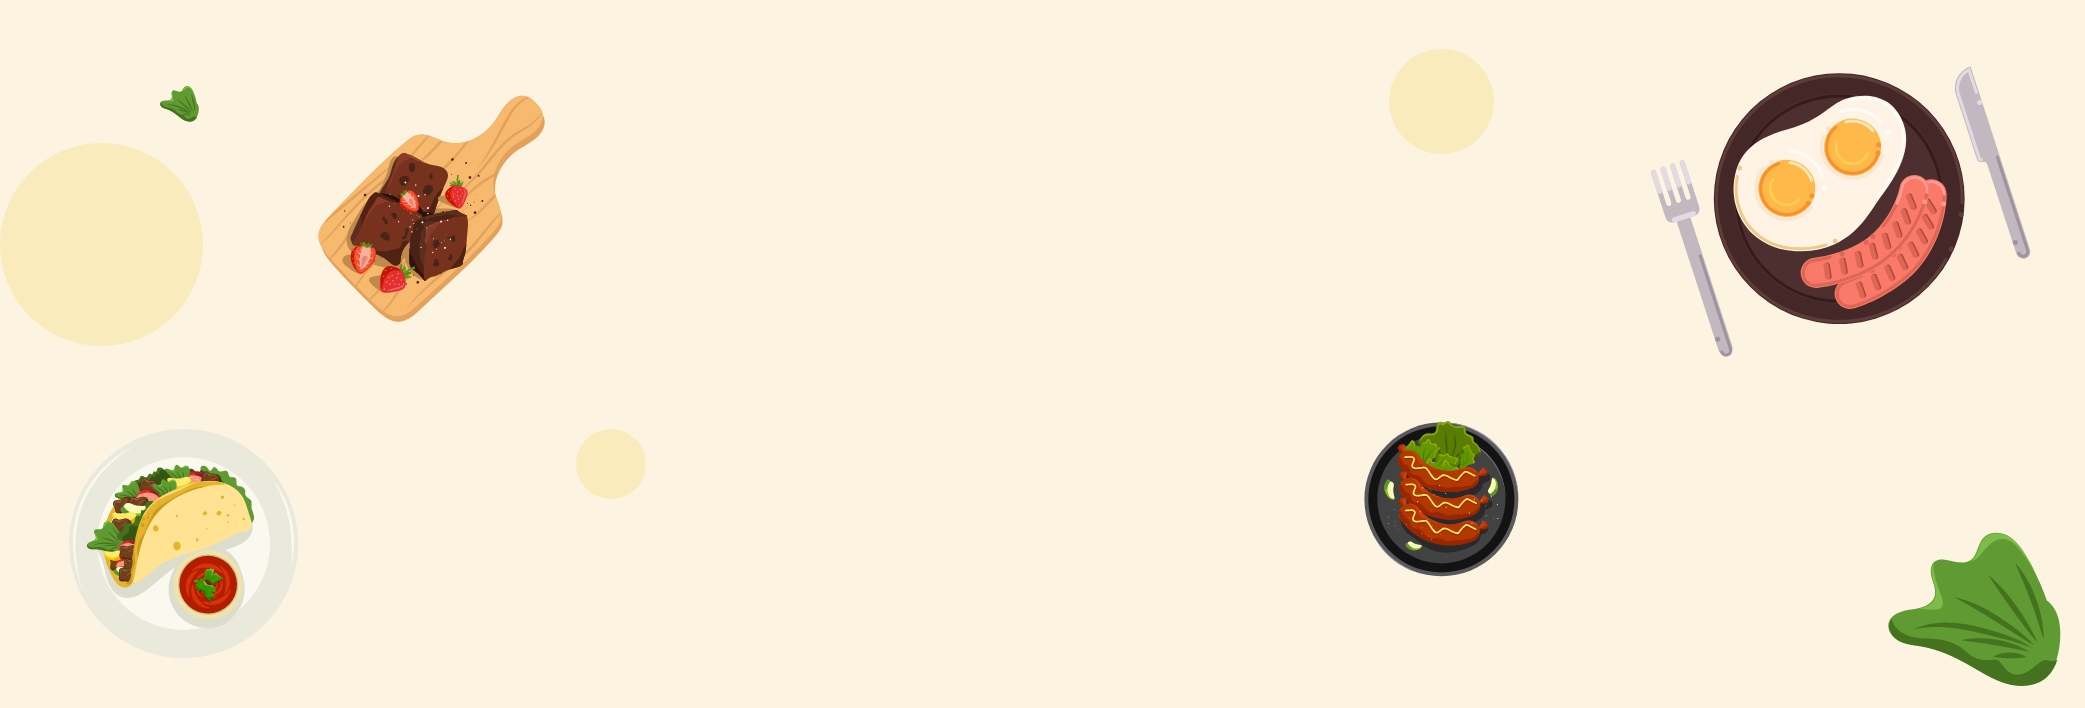
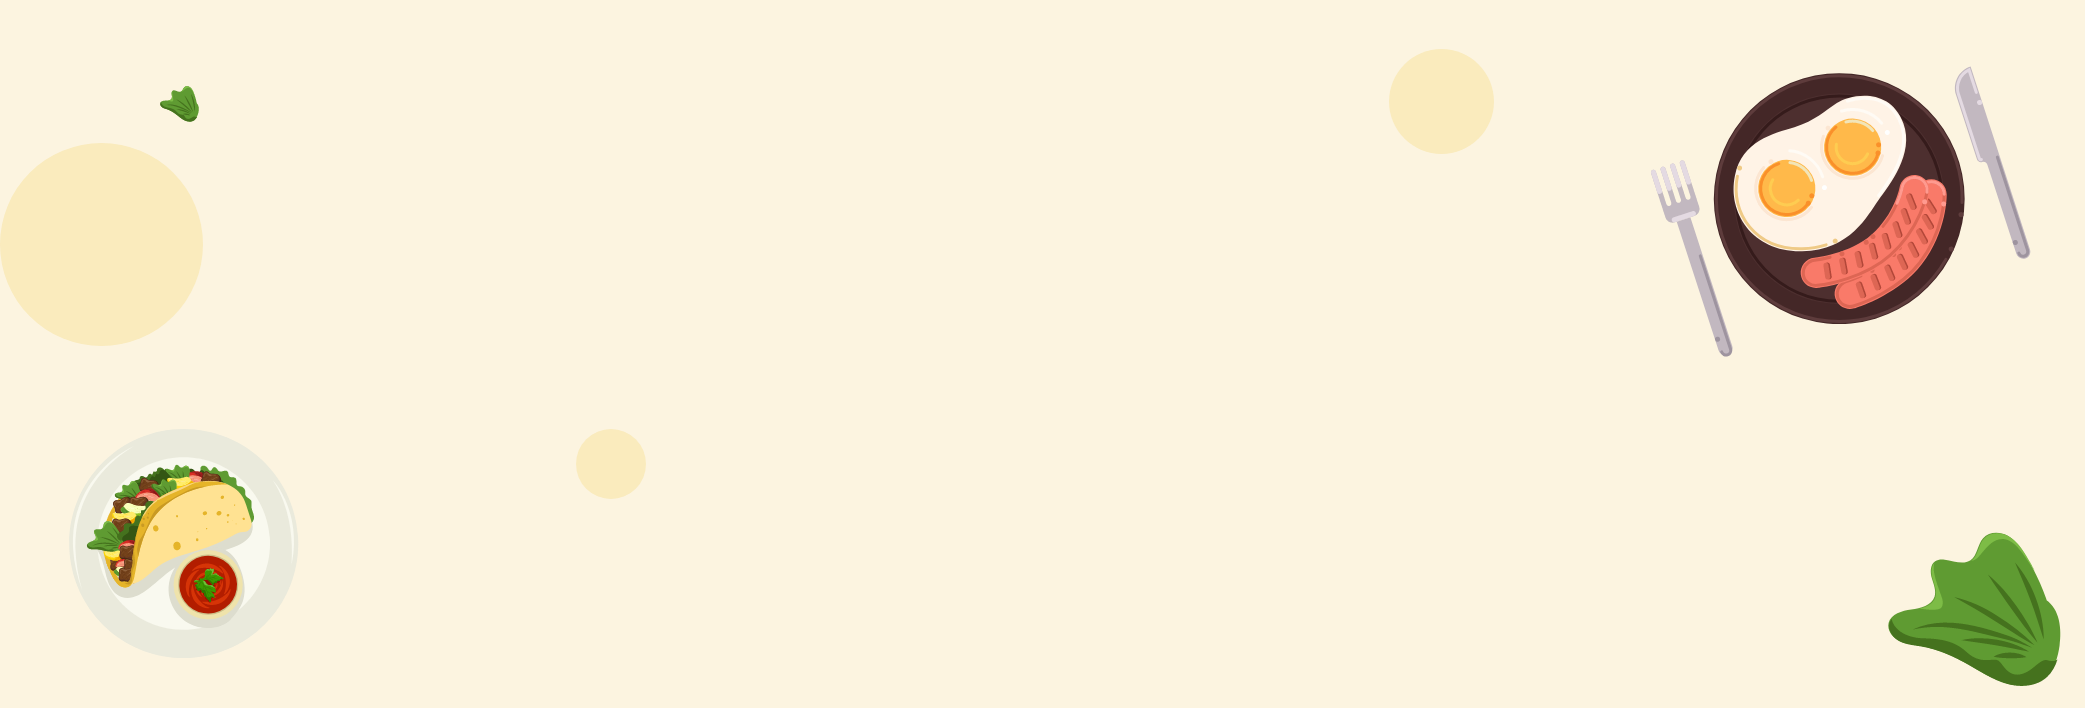
product showing done

Changed region(s): [[0.1559, 0.1243, 0.2806, 0.4661], [0.6547, 0.5904, 0.7482, 0.8079]]

diff --git a/src/foodData/foods.js b/src/foodData/foods.js
@@ -3,7 +3,7 @@ var foods =[
         "id": 1,
         "name": "bagel and cream cheese",
         "detail":"Lorem Ipsum is simply dummy text of the printing and typesetting industry. Lorem Ipsum has been the industry's standard dummy text ever since the 1500s, when an unknown printer took a galley of type and scrambled it to make a type specimen book.",
-        "short": "1Beef ham hock buffalo venison turkey pig burgdoggen turducken doner t-bone ham.",
+        "short": "1Beef ham hock buffalo venison turkey pig burgdoggen turducken doner.",
         "price": "6.99",
         "img":"http://razu.me/hot-onion/Breakfast/breakfast1-min.png",
         "category":"breakfast"
@@ -12,7 +12,7 @@ var foods =[
         "id": 2,
         "name": "breakfat sandwich",
         "detail":"Lorem Ipsum is simply dummy text of the printing and typesetting industry. Lorem Ipsum has been the industry's standard dummy text ever since the 1500s, when an unknown printer took a galley of type and scrambled it to make a type specimen book.",
-        "short": "1Beef ham hock buffalo venison turkey pig burgdoggen turducken doner t-bone ham.",
+        "short": "1Beef ham hock buffalo venison turkey pig burgdoggen turducken doner.",
         "price": "9.99",
         "img":"http://razu.me/hot-onion/Breakfast/breakfast2-min.png",
         "category":"breakfast"
@@ -21,7 +21,7 @@ var foods =[
         "id": 3,
         "name": "backed chicken",
         "detail":"Lorem Ipsum is simply dummy text of the printing and typesetting industry. Lorem Ipsum has been the industry's standard dummy text ever since the 1500s, when an unknown printer took a galley of type and scrambled it to make a type specimen book.",
-        "short": "1Beef ham hock buffalo venison turkey pig burgdoggen turducken doner t-bone ham.",
+        "short": "1Beef ham hock buffalo venison turkey pig burgdoggen turducken doner.",
         "price": "10.99",
         "img":"http://razu.me/hot-onion/Breakfast/breakfast3-min.png",
         "category":"breakfast"
@@ -30,7 +30,7 @@ var foods =[
         "id": 4,
         "name": "egg benedict",
         "detail":"Lorem Ipsum is simply dummy text of the printing and typesetting industry. Lorem Ipsum has been the industry's standard dummy text ever since the 1500s, when an unknown printer took a galley of type and scrambled it to make a type specimen book.",
-        "short": "1Beef ham hock buffalo venison turkey pig burgdoggen turducken doner t-bone ham.",
+        "short": "1Beef ham hock buffalo venison turkey pig burgdoggen turducken doner.",
         "price": "8.99",
         "img":"http://razu.me/hot-onion/Breakfast/breakfast4-min.png",
         "category":"breakfast"
@@ -39,7 +39,7 @@ var foods =[
         "id": 5,
         "name": "toast croissant fried egg",
         "detail":"Lorem Ipsum is simply dummy text of the printing and typesetting industry. Lorem Ipsum has been the industry's standard dummy text ever since the 1500s, when an unknown printer took a galley of type and scrambled it to make a type specimen book.",
-        "short": "1Beef ham hock buffalo venison turkey pig burgdoggen turducken doner t-bone ham.",
+        "short": "1Beef ham hock buffalo venison turkey pig burgdoggen turducken doner.",
         "price": "19.99",
         "img":"http://razu.me/hot-onion/Breakfast/breakfast5-min.png",
         "category":"breakfast"
@@ -48,7 +48,7 @@ var foods =[
         "id": 6,
         "name": "full breakfast fried egg toast brunch",
         "detail":"Lorem Ipsum is simply dummy text of the printing and typesetting industry. Lorem Ipsum has been the industry's standard dummy text ever since the 1500s, when an unknown printer took a galley of type and scrambled it to make a type specimen book.",
-        "short": "1Beef ham hock buffalo venison turkey pig burgdoggen turducken doner t-bone ham.",
+        "short": "1Beef ham hock buffalo venison turkey pig burgdoggen turducken doner.",
         "price": "3.99",
         "img":"http://www.razu.me/hot-onion/Breakfast/breakfast6-min.png",
         "category":"breakfast"
@@ -57,7 +57,7 @@ var foods =[
         "id": 7,
         "name": "healthy meal plan",
         "detail":"Lorem Ipsum is simply dummy text of the printing and typesetting industry. Lorem Ipsum has been the industry's standard dummy text ever since the 1500s, when an unknown printer took a galley of type and scrambled it to make a type specimen book.",
-        "short": "1Beef ham hock buffalo venison turkey pig burgdoggen turducken doner t-bone ham.",
+        "short": "1Beef ham hock buffalo venison turkey pig burgdoggen turducken doner.",
         "price": "23.99",
         "img":"http://razu.me/hot-onion/Lunch/lunch1-min.png",
         "category":"lunch"
@@ -66,7 +66,7 @@ var foods =[
         "id": 8,
         "name": "fried chicken bento",
         "detail":"Lorem Ipsum is simply dummy text of the printing and typesetting industry. Lorem Ipsum has been the industry's standard dummy text ever since the 1500s, when an unknown printer took a galley of type and scrambled it to make a type specimen book.",
-        "short": "1Beef ham hock buffalo venison turkey pig burgdoggen turducken doner t-bone ham.",
+        "short": "1Beef ham hock buffalo venison turkey pig burgdoggen turducken doner.",
         "price": "9.99",
         "img":"http://razu.me/hot-onion/Lunch/lunch2-min.png",
         "category":"lunch"
@@ -75,7 +75,7 @@ var foods =[
         "id": 9,
         "name": "taragon rubbed salmon",
         "detail":"Lorem Ipsum is simply dummy text of the printing and typesetting industry. Lorem Ipsum has been the industry's standard dummy text ever since the 1500s, when an unknown printer took a galley of type and scrambled it to make a type specimen book.",
-        "short": "1Beef ham hock buffalo venison turkey pig burgdoggen turducken doner t-bone ham.",
+        "short": "1Beef ham hock buffalo venison turkey pig burgdoggen turducken doner.",
         "price": "6.99",
         "img":"http://razu.me/hot-onion/Lunch/lunch3-min.png",
         "category":"lunch"
@@ -84,7 +84,7 @@ var foods =[
         "id": 10,
         "name": "indian lunch",
         "detail":"Lorem Ipsum is simply dummy text of the printing and typesetting industry. Lorem Ipsum has been the industry's standard dummy text ever since the 1500s, when an unknown printer took a galley of type and scrambled it to make a type specimen book.",
-        "short": "1Beef ham hock buffalo venison turkey pig burgdoggen turducken doner t-bone ham.",
+        "short": "1Beef ham hock buffalo venison turkey pig burgdoggen turducken doner.",
         "price": "8.99",
         "img":"http://razu.me/hot-onion/Lunch/lunch4-min.png",
         "category":"lunch"
@@ -93,7 +93,7 @@ var foods =[
         "id": 11,
         "name": "beef steak",
         "detail":"Lorem Ipsum is simply dummy text of the printing and typesetting industry. Lorem Ipsum has been the industry's standard dummy text ever since the 1500s, when an unknown printer took a galley of type and scrambled it to make a type specimen book.",
-        "short": "1Beef ham hock buffalo venison turkey pig burgdoggen turducken doner t-bone ham.",
+        "short": "1Beef ham hock buffalo venison turkey pig burgdoggen turducken doner.",
         "price": "15.99",
         "img":"http://razu.me/hot-onion/Lunch/lunch5-min.png",
         "category":"lunch"
@@ -102,7 +102,7 @@ var foods =[
         "id": 12,
         "name": "honey soy glazed salmon with peppers",
         "detail":"Lorem Ipsum is simply dummy text of the printing and typesetting industry. Lorem Ipsum has been the industry's standard dummy text ever since the 1500s, when an unknown printer took a galley of type and scrambled it to make a type specimen book.",
-        "short": "1Beef ham hock buffalo venison turkey pig burgdoggen turducken doner t-bone ham.",
+        "short": "1Beef ham hock buffalo venison turkey pig burgdoggen turducken doner.",
         "price": "7.99",
         "img":"http://razu.me/hot-onion/Lunch/lunch6-min.png",
         "category":"lunch"
@@ -111,7 +111,7 @@ var foods =[
         "id": 13,
         "name": "salmon with grapefruit and lentil salad",
         "detail":"Lorem Ipsum is simply dummy text of the printing and typesetting industry. Lorem Ipsum has been the industry's standard dummy text ever since the 1500s, when an unknown printer took a galley of type and scrambled it to make a type specimen book.",
-        "short": "1Beef ham hock buffalo venison turkey pig burgdoggen turducken doner t-bone ham.",
+        "short": "1Beef ham hock buffalo venison turkey pig burgdoggen turducken doner.",
         "price": "6.99",
         "img":"http://razu.me/hot-onion/Dinner/dinner1-min.png",
         "category":"dinner"
@@ -120,7 +120,7 @@ var foods =[
         "id": 14,
         "name": "lemony piccata",
         "detail":"Lorem Ipsum is simply dummy text of the printing and typesetting industry. Lorem Ipsum has been the industry's standard dummy text ever since the 1500s, when an unknown printer took a galley of type and scrambled it to make a type specimen book.",
-        "short": "1Beef ham hock buffalo venison turkey pig burgdoggen turducken doner t-bone ham.",
+        "short": "1Beef ham hock buffalo venison turkey pig burgdoggen turducken doner.",
         "price": "10.99",
         "img":"http://razu.me/hot-onion/Dinner/dinner2-min.png",
         "category":"dinner"
@@ -129,7 +129,7 @@ var foods =[
         "id": 15,
         "name": "park tenderloin with pilaf",
         "detail":"Lorem Ipsum is simply dummy text of the printing and typesetting industry. Lorem Ipsum has been the industry's standard dummy text ever since the 1500s, when an unknown printer took a galley of type and scrambled it to make a type specimen book.",
-        "short": "1Beef ham hock buffalo venison turkey pig burgdoggen turducken doner t-bone ham.",
+        "short": "1Beef ham hock buffalo venison turkey pig burgdoggen turducken doner.",
         "price": "12.99",
         "img":"http://razu.me/hot-onion/Dinner/dinner3-min.png",
         "category":"dinner"
@@ -138,7 +138,7 @@ var foods =[
         "id": 16,
         "name": "french fries with cheese",
         "detail":"Lorem Ipsum is simply dummy text of the printing and typesetting industry. Lorem Ipsum has been the industry's standard dummy text ever since the 1500s, when an unknown printer took a galley of type and scrambled it to make a type specimen book.",
-        "short": "1Beef ham hock buffalo venison turkey pig burgdoggen turducken doner t-bone ham.",
+        "short": "1Beef ham hock buffalo venison turkey pig burgdoggen turducken doner.",
         "price": "6.99",
         "img":"http://razu.me/hot-onion/Dinner/dinner4-min.png",
         "category":"dinner"
@@ -147,7 +147,7 @@ var foods =[
         "id": 17,
         "name": "garlic butter baked salmon",
         "detail":"Lorem Ipsum is simply dummy text of the printing and typesetting industry. Lorem Ipsum has been the industry's standard dummy text ever since the 1500s, when an unknown printer took a galley of type and scrambled it to make a type specimen book.",
-        "short": "1Beef ham hock buffalo venison turkey pig burgdoggen turducken doner t-bone ham.",
+        "short": "1Beef ham hock buffalo venison turkey pig burgdoggen turducken doner.",
         "price": "6.99",
         "img":"http://razu.me/hot-onion/Dinner/dinner5-min.png",
         "category":"dinner"
@@ -156,7 +156,7 @@ var foods =[
         "id": 18,
         "name": "baked chicken",
         "detail":"Lorem Ipsum is simply dummy text of the printing and typesetting industry. Lorem Ipsum has been the industry's standard dummy text ever since the 1500s, when an unknown printer took a galley of type and scrambled it to make a type specimen book.",
-        "short": "1Beef ham hock buffalo venison turkey pig burgdoggen turducken doner t-bone ham.",
+        "short": "1Beef ham hock buffalo venison turkey pig burgdoggen turducken doner.",
         "price": "9.99",
         "img":"http://razu.me/hot-onion/Dinner/dinner6-min.png",
         "category":"dinner"

diff --git a/src/components/Foods/Foods.js b/src/components/Foods/Foods.js
@@ -1,0 +1,43 @@
+import React, { useState } from "react";
+import foodsList from "../../foodData/foods";
+import "../Foods/Foods.css";
+import wrapBg from "../../images/wrapper-bg.png"
+import { Row, Container, Col } from "react-bootstrap";
+const Foods = () => {
+  const [foods, setFoods] = useState(foodsList);
+  const [selectedFoodCat, setSelectedFoodCat] = useState("breakfast");
+
+  const selectedFoods = foods.filter(food => food.category === selectedFoodCat);
+
+  console.log(selectedFoodCat);
+  console.log(selectedFoods);
+
+  return (
+    <div className="wrapp" style={{ backgroundImage: `url(${wrapBg})` }}>
+      <div className="tab-menu">
+        <ul>
+          <li onClick={() => setSelectedFoodCat("breakfast")}>breakfast</li>
+          <li onClick={() => setSelectedFoodCat("lunch")}>lunch</li>
+          <li onClick={() => setSelectedFoodCat("dinner")}>dinner</li>
+        </ul>
+      </div>
+
+      <Container>
+        <Row>
+          {selectedFoods.map(food => (
+            <Col md="4">
+              <div className="singl-food-item">
+                <img src={food.img} alt="" />
+                <a href="">{food.name}</a>
+                <p>{food.short}</p>
+                <span>${food.price}</span>
+              </div>
+            </Col>
+          ))}
+        </Row>
+      </Container>
+    </div>
+  );
+};
+
+export default Foods;

diff --git a/src/components/Header/Header.css b/src/components/Header/Header.css
@@ -40,7 +40,51 @@
   height: 570px;
   position: relative;
   object-fit: cover;
+  z-index: 1;
 }
+.beef {
+  position: absolute;
+  left: 15%;
+  top: 100px;
+  -webkit-animation: tp 3s linear infinite;
+  animation: tp 3s linear infinite;
+  z-index: -1;
+}
+.roll {
+  position: absolute;
+  right: 20%;
+  bottom: 100px;
+  -webkit-animation: bp 3s linear infinite;
+  animation: bp 3s linear infinite;
+  z-index: -1;
+}
+@keyframes tp {
+  from {
+    transform: translate(0, 0px);
+  }
+
+  65% {
+    transform: translate(0, 40px);
+  }
+
+  to {
+    transform: translate(0, -0px);
+  }
+}
+@keyframes bp {
+  from {
+    transform: translate(0, 0px);
+  }
+
+  65% {
+    transform: translate(50px, 0px);
+  }
+
+  to {
+    transform: translate(0, -0px);
+  }
+}
+
 .banner-text {
   position: absolute;
   left: 50%;
@@ -81,7 +125,7 @@
 }
 .tab-menu ul {
   text-align: center;
-  padding: 50px 0;
+  padding: 60px 0 20px 0;
 }
 .tab-menu ul li {
   display: inline-block;
@@ -89,7 +133,8 @@
   padding: 0 15px;
   text-transform: capitalize;
   font-weight: 500;
-  font-size: 19px;
+  font-size: 20px;
+  cursor: pointer;
 }
 @media only screen and (max-width: 767px) {
   .serach-form {

diff --git a/src/components/Foods/Foods.css b/src/components/Foods/Foods.css
@@ -1,0 +1,46 @@
+.wrapp {
+	font-family: "Open Sans", sans-serif;
+	background-position: center;
+    background-size: contain;
+    background-attachment: fixed;
+    padding-bottom: 80px;
+}
+.singl-food-item {
+  text-align: center;
+  padding: 30px;
+  background-color: #fff;
+  border: 1px solid #f5f5f5;
+  margin-top: 30px;
+  height: 400px;
+  transition: 0.5s;
+}
+.singl-food-item img {
+  width: 60%;
+}
+.singl-food-item a {
+  color: rgb(44, 44, 44);
+  font-size: 20px;
+  text-transform: capitalize;
+  margin-top: 30px;
+  font-weight: 600;
+  display: block;
+  text-decoration: none;
+  transition: 0.5s;
+}
+.singl-food-item:hover a {
+  color: #f91944;
+  text-decoration: none;
+}
+.singl-food-item:hover {
+  box-shadow: 0px 10px 30px rgba(0, 0, 0, 0.051);
+  border: 1px solid transparent;
+}
+.singl-food-item p {
+  color: rgb(153, 153, 153);
+  font-size: 15px;
+}
+.singl-food-item span {
+  color: rgb(80, 80, 80);
+  font-size: 22px;
+  font-weight: 600;
+}

diff --git a/src/components/Header/Header.js b/src/components/Header/Header.js
@@ -1,5 +1,7 @@
 import React from "react";
 import logo from "../../images/logo2.png";
+import beef from "../../images/beef.png";
+import roll from "../../images/roll.png";
 import banner from "../../images/bannerbackground.png";
 import "./Header.css";
 import { FontAwesomeIcon } from "@fortawesome/react-fontawesome";
@@ -48,14 +50,14 @@ const Header = () => {
           <button>search</button>
           </div>
         </div>
+        <div className="beef">
+            <img src={beef} alt=""/>
+          </div>
+          <div className="roll">
+            <img src={roll} alt=""/>
+          </div>
       </div>
-      <div className="tab-menu">
-        <ul>
-          <li>breakfast</li>
-          <li>lunch</li>
-          <li>dinner</li>
-        </ul>
-      </div>
+      
     </div>
   );
 };

diff --git a/src/App.js b/src/App.js
@@ -1,13 +1,14 @@
 import React from "react";
 import "./App.css";
 import Header from "./components/Header/Header";
-import Breakfast from "./components/Breakfast/Breakfast";
+import Foods from "./components/Foods/Foods";
+// import Breakfast from "./components/Breakfast/Breakfast";
 
 function App() {
   return (
     <div className="wrapper">
       <Header></Header>
-      <Breakfast></Breakfast>
+      <Foods></Foods>
     </div>
   );
 }
